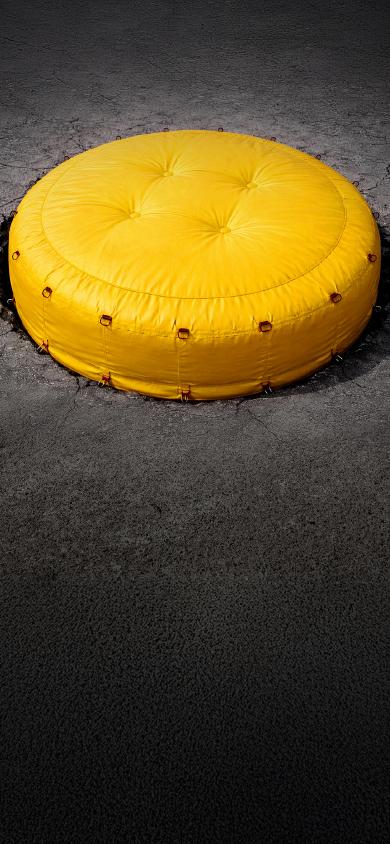
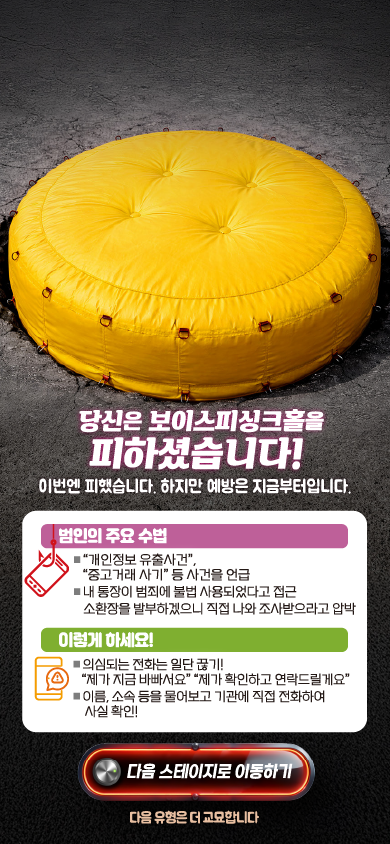
수정

diff --git a/index.html b/index.html
@@ -385,8 +385,8 @@
           />
           <!-- 모바일 전용: item-mobile 오버레이 레이어 -->
           <img
-            class="suc-mo-layer suc-mo-bg"
-            src="image/step1/success/item-mobile/스테이지1생존 배경.jpg"
+            class="suc-mo-layer suc-mo-before"
+            src="image/step1/success/m-before.png"
             alt=""
             aria-hidden="true"
             draggable="false"
@@ -401,42 +401,6 @@
           <img
             class="suc-mo-layer suc-mo-confetti1"
             src="image/step1/success/item-mobile/폭죽금.png"
-            alt=""
-            aria-hidden="true"
-            draggable="false"
-          />
-     
-          <img
-            class="suc-mo-layer suc-mo-whitebg"
-            src="image/step1/success/item-mobile/스마트폰 성공 하얀배경 복사 (1).png"
-            alt=""
-            aria-hidden="true"
-            draggable="false"
-          />
-          <img
-            class="suc-mo-layer suc-mo-img1"
-            src="image/step1/success/item-mobile/1.png"
-            alt=""
-            aria-hidden="true"
-            draggable="false"
-          />
-          <img
-            class="suc-mo-layer suc-mo-img2"
-            src="image/step1/success/item-mobile/2.png"
-            alt=""
-            aria-hidden="true"
-            draggable="false"
-          />
-          <img
-            class="suc-mo-layer suc-mo-text"
-            src="image/step1/success/item-mobile/스마트폰용 랜딩페이지 성공스테이지1.png"
-            alt=""
-            aria-hidden="true"
-            draggable="false"
-          />
-          <img
-            class="suc-mo-layer suc-mo-button"
-            src="image/step1/success/item-mobile/다음스테이지이동하기버튼.png"
             alt=""
             aria-hidden="true"
             draggable="false"
@@ -734,13 +698,6 @@
           />
           <!-- 모바일 전용: item-mobile 오버레이 레이어 -->
           <img
-            class="suc-mo-layer suc-mo-bg"
-            src="image/step2/success/item-mobile/스테이지1생존 배경.jpg"
-            alt=""
-            aria-hidden="true"
-            draggable="false"
-          />
-          <img
             class="suc-mo-layer suc-mo-char"
             src="image/step2/success/item-mobile/생존남누끼.png"
             alt=""
@@ -750,48 +707,6 @@
           <img
             class="suc-mo-layer suc-mo-confetti1"
             src="image/step2/success/item-mobile/폭죽금.png"
-            alt=""
-            aria-hidden="true"
-            draggable="false"
-          />
-          <!-- <img
-            class="suc-mo-layer suc-mo-confetti2"
-            src="image/step2/success/item-mobile/스테이지1생존폭죽2.png"
-            alt=""
-            aria-hidden="true"
-            draggable="false"
-          /> -->
-          <img
-            class="suc-mo-layer suc-mo-whitebg"
-            src="image/step2/success/item-mobile/스마트폰 성공 하얀배경 복사 (1).png"
-            alt=""
-            aria-hidden="true"
-            draggable="false"
-          />
-          <img
-            class="suc-mo-layer suc-mo-img1"
-            src="image/step2/success/item-mobile/1.png"
-            alt=""
-            aria-hidden="true"
-            draggable="false"
-          />
-          <img
-            class="suc-mo-layer suc-mo-img2"
-            src="image/step2/success/item-mobile/2.png"
-            alt=""
-            aria-hidden="true"
-            draggable="false"
-          />
-          <img
-            class="suc-mo-layer suc-mo-text"
-            src="image/step2/success/item-mobile/스마트폰용 랜딩페이지 성공스테이지2.png"
-            alt=""
-            aria-hidden="true"
-            draggable="false"
-          />
-          <img
-            class="suc-mo-layer suc-mo-button"
-            src="image/step2/success/item-mobile/다음스테이지이동하기버튼.png"
             alt=""
             aria-hidden="true"
             draggable="false"
@@ -1087,7 +1002,7 @@
             aria-hidden="true"
             draggable="false"
           />
-          <!-- 모바일 전용: item-mobile 오버레이 레이어 (배경 없음 → mo.png 그대로 사용) -->
+          <!-- 모바일 전용: item-mobile 오버레이 레이어 -->
           <img
             class="suc-mo-layer suc-mo-char"
             src="image/step3/success/item-mobile/노인만세.png"
@@ -1098,48 +1013,6 @@
           <img
             class="suc-mo-layer suc-mo-confetti1"
             src="image/step3/success/item-mobile/폭죽금.png"
-            alt=""
-            aria-hidden="true"
-            draggable="false"
-          />
-          <!-- <img
-            class="suc-mo-layer suc-mo-confetti2"
-            src="image/step3/success/item-mobile/스테이지1생존폭죽2.png"
-            alt=""
-            aria-hidden="true"
-            draggable="false"
-          /> -->
-          <img
-            class="suc-mo-layer suc-mo-whitebg"
-            src="image/step3/success/item-mobile/스마트폰 성공 하얀배경 복사 (1).png"
-            alt=""
-            aria-hidden="true"
-            draggable="false"
-          />
-          <img
-            class="suc-mo-layer suc-mo-img1"
-            src="image/step3/success/item-mobile/1.png"
-            alt=""
-            aria-hidden="true"
-            draggable="false"
-          />
-          <img
-            class="suc-mo-layer suc-mo-img2"
-            src="image/step3/success/item-mobile/2.png"
-            alt=""
-            aria-hidden="true"
-            draggable="false"
-          />
-          <img
-            class="suc-mo-layer suc-mo-text"
-            src="image/step3/success/item-mobile/스마트폰용 랜딩페이지 성공스테이지3.png"
-            alt=""
-            aria-hidden="true"
-            draggable="false"
-          />
-          <img
-            class="suc-mo-layer suc-mo-button"
-            src="image/step3/success/item-mobile/다음스테이지이동하기버튼.png"
             alt=""
             aria-hidden="true"
             draggable="false"

diff --git a/css/style.css b/css/style.css
@@ -962,6 +962,17 @@ img {
   #screen-step1-suc .suc-mo-bg {
     z-index: 1;
   }
+  /* m-before: 사람 낙하 전 보이는 배경, 낙하 완료 후 페이드아웃 */
+  #screen-step1-suc .suc-mo-before {
+    z-index: 1;
+    height: 100%;
+    object-fit: cover;
+    opacity: 1;
+  }
+  #screen-step1-suc.active .suc-mo-before {
+    animation: suc-before-fadeout 0.4s ease forwards;
+    animation-delay: 2.65s;
+  }
   #screen-step1-suc .suc-mo-char {
     z-index: 2;
     transform-origin: center bottom;
@@ -1231,6 +1242,12 @@ img {
   #screen-step2-suc #btn-step2-suc-next:active {
     opacity: 0.7;
   }
+}
+
+/* ── before 페이드아웃 ── */
+@keyframes suc-before-fadeout {
+  0%   { opacity: 1; }
+  100% { opacity: 0; pointer-events: none; }
 }
 
 /* ── 성공 키프레임 ── */
@@ -1800,7 +1817,7 @@ img {
   /* 하얀 배경 박스 */
   #screen-step3-suc .suc-mo-whitebg {
     z-index: 5;
-    top: 54.9%;
+    top: 57.9%;
     left: 2%;
     right: 0;
     width: 89%;
@@ -1831,10 +1848,10 @@ img {
   /* 텍스트 오버레이 */
   #screen-step3-suc .suc-mo-text {
     z-index: 8;
-    top: 9.5%;
+    top: 2.5%;
     left: 0;
     right: 0;
-    width: 80.5%;
+    width: 93.5%;
     margin: 0 auto;
   }
 
